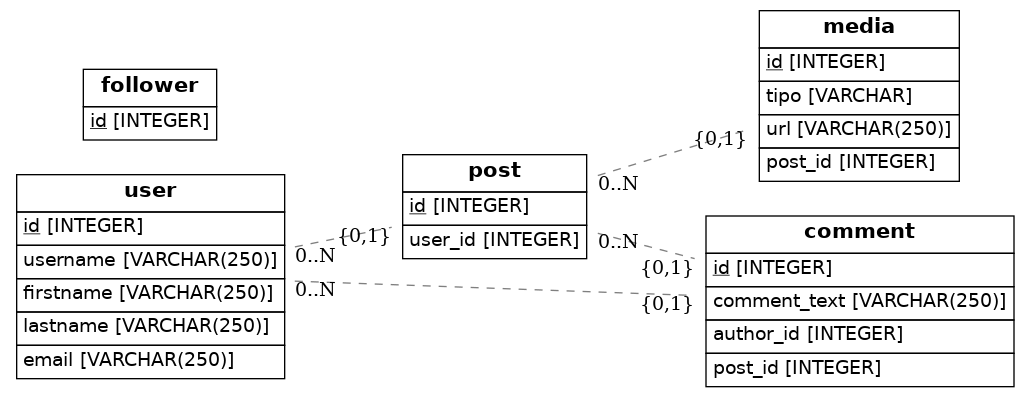
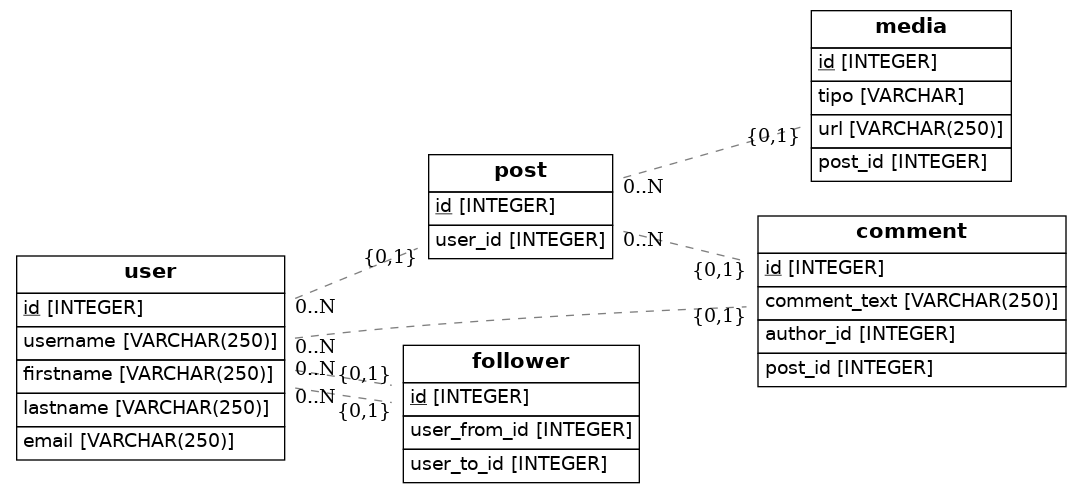
rev05

diff --git a/src/models.py b/src/models.py
@@ -50,10 +50,9 @@ class Comment(Base):
 class Follower(Base):
     __tablename__ = 'follower'
     # Here we define columns for the table address.
-    # Notice that each column is also a normal Python instance attribute.
     id = Column(Integer, primary_key=True)
-    user_from_id = (Integer, ForeignKey('user.id'))
-    user_to_id = (Integer, ForeignKey('user.id'))
+    user_from_id = Column(Integer, ForeignKey('user.id'))
+    user_to_id = Column(Integer, ForeignKey('user.id'))
     user = relationship(User)
     
     
